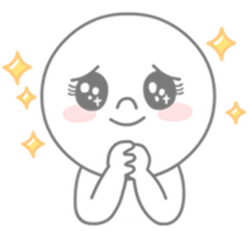
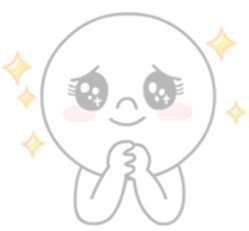
modify theme line sticker

diff --git a/blogspot/theme/line/css/default.css b/blogspot/theme/line/css/default.css
@@ -9,7 +9,7 @@
 	opacity : 0.95;
 	filter : Alpha(Opacity=95);
 	
-	background-image : url('https://rawgithub.com/jittagornp/index-search-javascript/master/blogspot/theme/line/image/sticker.PNG');
+	background-image : url('https://rawgithub.com/jittagornp/index-search-javascript/master/blogspot/theme/line/image/sticker.PNG?time=1');
 	background-repeat : no-repeat;
 	background-position : 95% 95%;
 }
